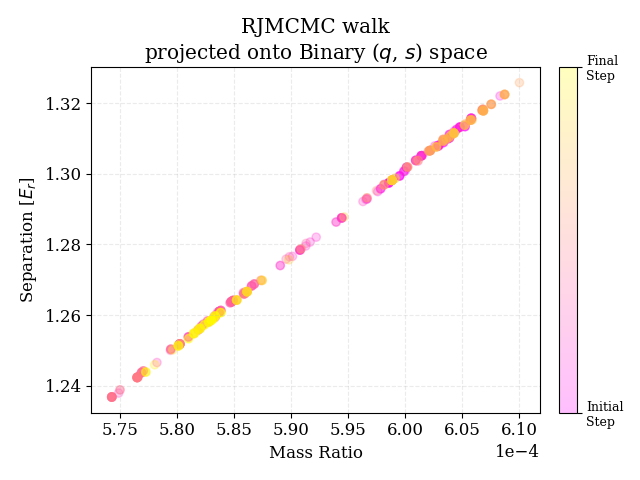
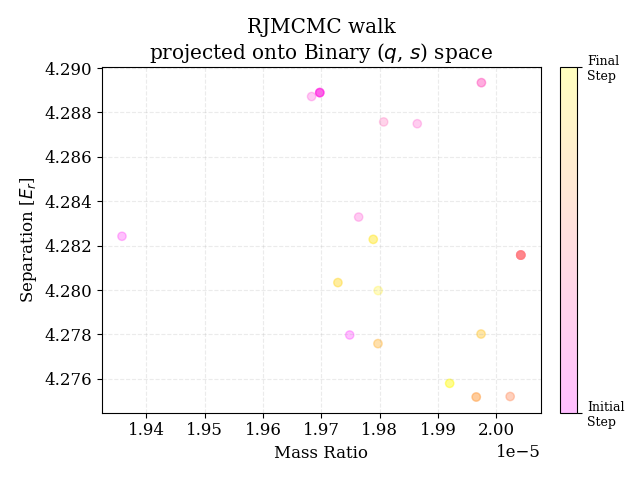
Tuned Adaptive

diff --git a/ReversibleJump.py b/ReversibleJump.py
@@ -12,7 +12,8 @@ import numpy as np
 import matplotlib.pyplot as plt
 from scipy.stats import truncnorm, loguniform, uniform
 from matplotlib.collections import LineCollection
-
+import seaborn as sns
+import pandas as pd
 
 
 plt.rcParams["font.family"] = "serif"
@@ -28,12 +29,12 @@ plt.rcParams["legend.fontsize"] = 9
 plt.rcParams["grid.linestyle"] = 'dashed' 
 plt.rcParams["grid.alpha"] = 0.25
 
-
+plt.rc('axes.formatter', useoffset=False)
 
 
 ## INITIALISATION ##
 
-sn = 2
+sn = 3
 
 # Synthetic Event Parameters
 theta_Models = [
@@ -58,7 +59,7 @@ plt.clf()
 
 
 # Generate "Synthetic" Lightcurve
-epochs = Model.set_times(n_epochs = 50)
+epochs = Model.set_times(n_epochs = 720)
 error = Model.magnification(epochs)/50 + 0.1
 Data = mm.MulensData(data_list=[epochs, Model.magnification(epochs), error], phot_fmt='flux', chi2_fmt='flux')
 
@@ -107,8 +108,8 @@ center_2 = np.array(center_2s[sn])
 centers = [center_1, center_2]
 
 # initial covariances (diagonal)
-covariance_1 = np.multiply(1, [0.01, 0.01, 0.1])
-covariance_2 = np.multiply(1, [0.01, 0.01, 0.1, 0.0001, 0.0001, 0.001, 0.001])#0.5
+covariance_1 = np.multiply(0.01, [0.1, 0.01, 0.1])
+covariance_2 = np.multiply(0.01, [0.1, 0.01, 0.1, 0.0001, 0.01, 0.01, 0.1])#0.5
 
 #covariance_1s = np.multiply(1, [0.01, 0.01, 0.1])
 #covariance_2s = np.multiply(1, [0.01, 0.01, 0.1, 0.0001, 0.0001, 0.001, 0.001])#0.5
@@ -118,7 +119,7 @@ covariance_2 = np.multiply(1, [0.01, 0.01, 0.1, 0.0001, 0.0001, 0.001, 0.001])#0
 
 # Use adaptiveMCMC to calculate initial covariances
 burns = 25
-iters = 125
+iters = 25
 theta_1i = center_1
 theta_2i = center_2
 covariance_1p, states_1, means_1, c_1, NULL = f.AdaptiveMCMC(1, Data, theta_1i, priors, covariance_1, burns, iters)
@@ -128,7 +129,7 @@ covariance_p = [covariance_1p, covariance_2p]
 
 
 # loop specific values
-iterations = 3000
+iterations = 300
 print(states_1[:, -1])
 theta = states_1[:, -1]#[36., 0.133, 61.5]#, 0.0014, 0.0009, 1.26, 224.]
 m = 1
@@ -267,7 +268,19 @@ states_1=np.array(states_1)
 h_states_1=np.array(h_states_1)
 
 
+labels = [r'Impact Time [$?$]', r'Minimum Impact Parameter [$?$]', r'Crossing Time [$?$]', r'Rho [$?$]', r'Mass Ratio', r'Separation [$E_r$]', r'Alpha [$Degrees$]', ]
+symbols = [r'$t_0$', r'$u_0$', r'$t_E$', r'$\rho$', r'$q$', r'$s$', r'$\alpha$']
+details = False
 
+
+
+#states_2df = pd.DataFrame(data = states_2, columns = labels)
+#print(states_2df)
+
+#grid = sns.PairGrid(data = states_2df, vars = labels, height = 7)
+#grid = grid.map_upper(pltf.PPlotWalk)
+#plt.savefig('Plots/RJ-binary-pplot.png')
+#plt.clf()
 
 
 
@@ -277,16 +290,19 @@ pltf.LightcurveFitError(1, bestt[0], priors, Data, Model, epochs, error)
 
 
 
-labels = [r'Impact Time [$?$]', r'Minimum Impact Parameter [$?$]', r'Crossing Time [$?$]', r'Rho [$?$]', r'Mass Ratio', r'Separation [$E_r$]', r'Alpha [$Degrees$]', ]
-symbols = [r'$t_0$', r'$u_0$', r'$t_E$', r'$rho$', r'$q$', r'$s$', r'$\alpha$']
-details = False
+
 
 pltf.PlotWalk(4, 5, states_2, f.unscale(2, center_2), theta_Model, labels, symbols, details)
 
-pltf.TracePlot(4, states_2, jumpStates_2, h_ind, f.unscale(2, center_2), theta_Model, labels, symbols, details)
+pltf.PlotWalk(5, 6, states_2, f.unscale(2, center_2), theta_Model, labels, symbols, details)
 
-pltf.DistPlot(2, 4, states_2, f.unscale(2, center_2), theta_Model, labels, symbols, details, )
+pltf.TracePlot(5, states_2, jumpStates_2, h_ind, f.unscale(2, center_2), theta_Model, labels, symbols, details)
 
+
+
+pltf.DistPlot(2, 4, states_2, f.unscale(2, center_2), theta_Model, labels, symbols, details)
+
+pltf.DistPlot(2, 5, states_2, f.unscale(2, center_2), theta_Model, labels, symbols, details)
 
 
 ## SINGLE MODEL ##
@@ -313,9 +329,6 @@ plt.clf()
 
 
 
-
-
-
 states_u = []
 for i in range(iterations): # record all single model states in the chain
     states_u.append(states[i][1])
@@ -335,13 +348,13 @@ y = np.array(AC.scalarPolyProjection(states))
 for i, n in enumerate(N):
     #gw2010[i] = a.autocorr_gw2010(y[:, :n])
     new[i] = MC.autocorr.integrated_time(y[:n], c=5, tol=50, quiet=True)#AC.autocorr_new(y[:n])#autocorr_new(y[:, :n])
-    newm[i] = MC.autocorr.integrated_time(jumpStates_2[:n, 4], c=5, tol=50, quiet=True)
-    newu[i] = MC.autocorr.integrated_time(states_u[:n], c=5, tol=50, quiet=True)
+    #newm[i] = MC.autocorr.integrated_time(jumpStates_2[:n, 4], c=5, tol=50, quiet=True)
+    #newu[i] = MC.autocorr.integrated_time(states_u[:n], c=5, tol=50, quiet=True)
 
 #plt.loglog(N, gw2010, "o-", label="G&W 2010")
 
 plt.plot(N, new, "o-", label="Scalar")
-plt.plot(N, newm, "--", label="M")
+#plt.plot(N, newm, "--", label="M")
 #plt.plot(N, newu, label="newu")
 #plt.plot(np.linspace(1, iterations, num=iterations), y, "o-", label="new")
 

diff --git a/PlotFunctions.py b/PlotFunctions.py
@@ -7,6 +7,7 @@ import numpy as np
 import matplotlib.pyplot as plt
 import matplotlib.patches as mpatches
 
+
 plt.rcParams["font.family"] = "serif"
 plt.rcParams['font.size'] = 12
 
@@ -21,13 +22,14 @@ plt.rcParams["grid.linestyle"] = 'dashed'
 plt.rcParams["grid.alpha"] = 0.25
 
 
-
+plt.rc('axes.formatter', useoffset=False)
 
 
 def PlotWalk(xi, yi, states, center, true, labels, symbols, details):
     #Make sure to unscale centers
 
     markerSize = 75
+    plt.grid()
     plt.scatter(states[:, xi], states[:, yi], c = np.linspace(0.0, 1.0, len(states)), cmap = 'spring', alpha = 0.25, marker = "o")
     cbar = plt.colorbar(fraction = 0.046, pad = 0.04, ticks = [0, 1]) # empirical nice auto sizing
     ax = plt.gca()
@@ -38,11 +40,11 @@ def PlotWalk(xi, yi, states, center, true, labels, symbols, details):
     plt.title('RJMCMC walk\nprojected onto Binary ('+symbols[xi]+', '+symbols[yi]+') space')
     
     if details == True:
-        plt.scatter(center[yi], center[xi], marker = r'$\odot$', label = 'Centre', s = markerSize, c = 'black', alpha = 1)
-        plt.scatter(true[yi], true[xi], marker = '*', label = 'True', s = markerSize, c = 'black', alpha = 1) # r'$\circledast$'
+        plt.scatter(center[xi], center[yi], marker = r'$\odot$', label = 'Centre', s = markerSize, c = 'black', alpha = 1)
+        plt.scatter(true[xi], true[yi], marker = '*', label = 'True', s = markerSize, c = 'black', alpha = 1) # r'$\circledast$'
         plt.legend()
     
-    plt.grid()
+
     plt.ticklabel_format(axis = "y", style = "sci", scilimits = (0,0))
     plt.ticklabel_format(axis = "x", style = "sci", scilimits = (0,0))
     plt.tight_layout()
@@ -52,11 +54,40 @@ def PlotWalk(xi, yi, states, center, true, labels, symbols, details):
     return
 
 
+def PPlotWalk(xs, ys, **kwargs):
+    #Make sure to unscale centers
+
+    markerSize = 75
+    plt.scatter(xs, ys, c = np.linspace(0.0, 1.0, len(xs)), cmap = 'spring', alpha = 0.75, marker = "o")
+    #cbar = plt.colorbar(fraction = 0.046, pad = 0.04, ticks = [0, 1]) # empirical nice auto sizing
+    #ax = plt.gca()
+    #cbar.ax.set_yticklabels(['Initial\nStep', 'Final\nStep'], fontsize=9)
+    #cbar.ax.yaxis.set_label_position('right')
+    #plt.xlabel(labels[xi])
+    #plt.ylabel(labels[yi])
+    #plt.title('RJMCMC walk\nprojected onto Binary ('+symbols[xi]+', '+symbols[yi]+') space')
+    
+    #if details == True:
+    #    plt.scatter(center[yi], center[xi], marker = r'$\odot$', label = 'Centre', s = markerSize, c = 'black', alpha = 1)
+    #    plt.scatter(true[yi], true[xi], marker = '*', label = 'True', s = markerSize, c = 'black', alpha = 1) # r'$\circledast$'
+    #    plt.legend()
+    
+    plt.grid()
+    #plt.ticklabel_format(axis = "y", style = "sci", scilimits = (0,0))
+    #plt.ticklabel_format(axis = "x", style = "sci", scilimits = (0,0))
+    #plt.tight_layout()
+    #plt.savefig('Plots/RJ-binary?-('+symbols[xi]+', '+symbols[yi]+')-Walk.png')
+    #plt.clf()
+    
+    return
+
+
 
 
 def TracePlot(yi, states, jumpStates, jump_i, center, true, labels, symbols, details):
     #Make sure to unscale centers
 
+    plt.grid()
     plt.plot(np.linspace(1, len(states), len(states)), states[:, yi], linewidth = 0.5)
     plt.xlabel('Binary Steps')
     plt.ylabel(labels[yi])
@@ -68,8 +99,8 @@ def TracePlot(yi, states, jumpStates, jump_i, center, true, labels, symbols, det
         plt.axhline(center[yi], label = 'Centre', color = 'black')
         plt.legend()
 
-    plt.grid()
-    plt.ticklabel_format(axis = "y", style = "sci", scilimits = (0,0))
+
+    #plt.ticklabel_format(axis = "y", style = "sci", scilimits = (0,0))
     plt.tight_layout()
     plt.savefig('Plots/RJ-Binary-' + symbols[yi] + '-Trace.png')
     plt.clf()
@@ -81,7 +112,8 @@ def TracePlot(yi, states, jumpStates, jump_i, center, true, labels, symbols, det
 
 def DistPlot(m, xi, states, center, true, labels, symbols, details):
     # Make sure to unscale centers
-
+    
+    plt.grid()
     plt.hist(states[:, xi], bins = 50, density = True)
     plt.xlabel(labels[xi])
     plt.ylabel('Probability Density')
@@ -94,7 +126,7 @@ def DistPlot(m, xi, states, center, true, labels, symbols, details):
 
     plt.ticklabel_format(axis = "y", style = "sci", scilimits = (0,0))
     plt.ticklabel_format(axis = "x", style = "sci", scilimits = (0,0))
-    plt.grid()
+
     plt.tight_layout()
     plt.savefig('Plots/RJ-Binary-' + symbols[xi] + '-dist')
     plt.clf()

diff --git a/AdaptiveMCMC.py b/AdaptiveMCMC.py
@@ -8,7 +8,7 @@ import random
 import numpy as np
 import matplotlib.pyplot as plt
 from scipy.stats import truncnorm, loguniform, uniform
-
+import PlotFunctions as pltf
 
 from matplotlib import cm
 from mpl_toolkits.mplot3d import Axes3D
@@ -75,7 +75,7 @@ Model = mm.Model({'t_0': 36, 'u_0': 0.133, 't_E': 61.5, 'rho': 0.0096, 'q': 0.00
 Model.set_magnification_methods([0., 'VBBL', 72.])
 
 # Generate "Synthetic" Lightcurve
-t = Model.set_times(n_epochs = 72)
+t = Model.set_times(n_epochs = 720)
 error = Model.magnification(t)/50 + 0.1
 Data = mm.MulensData(data_list=[t, Model.magnification(t), error], phot_fmt='flux', chi2_fmt='flux')
 
@@ -99,17 +99,18 @@ theta_2i = np.array([35, 0.125, 61.1, 0.00988, np.log(0.000305), 1.258, 222.8]) 
 
 # initial covariances (diagonal)
 covariance_1i=np.multiply(1, [0.01, 0.01, 0.1]) #0.0001
-covariance_2i=np.multiply(10, [0.1, 0.01, 0.1, 0.0001, 0.01, 0.1, 1])#[0.1, 0.01, 0.1, 0.0001, 0.01, 0.1, 1])#[0.01, 0.01, 0.1, 0.0001, 0.0001, 0.001, 0.001]
+covariance_2i=np.multiply(0.01, [0.1, 0.01, 0.1, 0.0001, 0.01, 0.01, 0.1])#[0.1, 0.01, 0.1, 0.0001, 0.01, 0.1, 1])#[0.01, 0.01, 0.1, 0.0001, 0.0001, 0.001, 0.001]
+#should be small to get a quick taste of size (too small makes growth to normal size to slow)
 
-burns=25
-iters=525
+burns = 25 #should be small to not bias later
+iters = 1025
 
 #covariance_1p, states_1, c_1 = f.AdaptiveMCMC(1, Data, theta_1i, priors, covariance_1i, 200, 200)
 covariance_2p, states_2, means_2, c_2, covs = f.AdaptiveMCMC(2, Data, theta_2i, priors, covariance_2i, burns, iters)
 
 # Create and plot the accepatnce ratio over time
 acc = []
-size = 50
+size = 50#50
 bins = int((burns + iters) / size)
 
 for bin in range(bins): # record the ratio of acceptance for each bin
@@ -148,7 +149,7 @@ ij = np.linspace(1, len(covs), num=len(covs))
 vars = ['t_0', 'u_0', 't_E', 'rho', 'q', 's', 'alpha']
 colors = [cm.rainbow(i) for i in np.linspace(0, 1, 7)]
 for j in range(7):
-    plt.plot(ij, Trs[j, :]/theta_2i[j], c=colors[j], label = vars[j], alpha=0.9)
+    plt.plot(ij, Trs[j, :], c=colors[j], label = vars[j], alpha=0.9)#/theta_2i[j]
 
 plt.xlabel(f'Iterations [{size}]')
 plt.ylabel('Pseudo Trace'+r'[$Bins^{-1}$]')
@@ -159,6 +160,17 @@ plt.tight_layout()
 plt.savefig('Plots/Adaptive-MCMC-size-progression.png')
 plt.clf()
 
+
+
+plt.plot(ij, np.sum(Trs, axis=0), c=colors[j], label = 'Trace', alpha=0.9)
+plt.xlabel(f'Iterations [{size}]')
+plt.ylabel('Trace'+r'[$Bins^{-1}$]')
+plt.title('Adaptive MCMC size timeline')
+plt.legend()
+plt.grid()
+plt.tight_layout()
+plt.savefig('Plots/Adaptive-MCMC-Trace-progression.png')
+plt.clf()
 
 
 #print(np.cov(states_1))
@@ -176,6 +188,16 @@ plt.clf()
 #print((np.cov(states_2))) # clearly, adaption is calculating wrong
 
 # plot the points visited during the walk
+
+labels = [r'Impact Time [$?$]', r'Minimum Impact Parameter [$?$]', r'Crossing Time [$?$]', r'Rho [$?$]', r'Mass Ratio', r'Separation [$E_r$]', r'Alpha [$Degrees$]', ]
+symbols = [r'$t_0$', r'$u_0$', r'$t_E$', r'$\rho$', r'$q$', r'$s$', r'$\alpha$']
+details = False
+
+
+for i in range(7):
+    #pltf.PlotWalk(4, 5, states_2, 1, 1, labels, symbols, details)
+    pltf.TracePlot(i, np.transpose(states_2), 1, 1, 1, 1, labels, symbols, details)
+
 
 plt.scatter(states_2[5,:], np.exp(states_2[4,:]), c=np.linspace(0.0, 1.0, iters+burns), cmap='spring', alpha=0.25, marker="o")
 cbar = plt.colorbar(fraction = 0.046, pad = 0.04, ticks=[0, 1]) # empirical nice auto sizing
